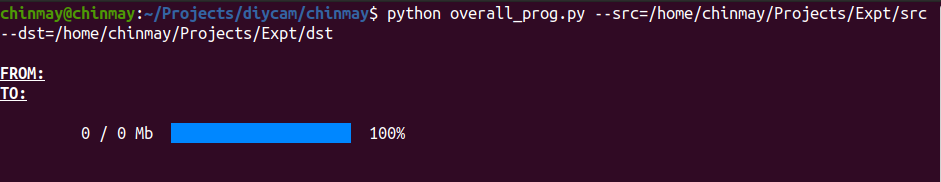
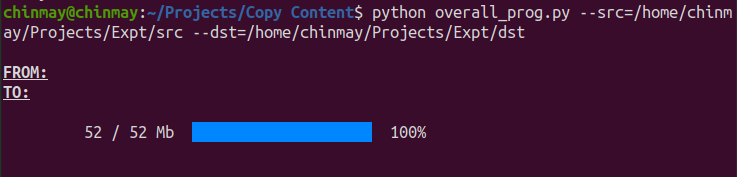
added readme

Changed region(s): [[0.0, 0.0, 1.0, 1.0], [0.0624, 0.6497, 0.5929, 0.8192], [0.0, 0.3672, 0.0624, 0.565]]

diff --git a/readme.md b/readme.md
@@ -1,0 +1,11 @@
+# Copy-Content-With-Progressbar
+
+## Progressbar
+<p float="left">
+    <img src="imgs/copy.png" width="640"/>
+</p>
+
+## How to use
+```sh
+python overall_prog.py --src=<path/to/source> --dst=<path/to/destination>
+```
